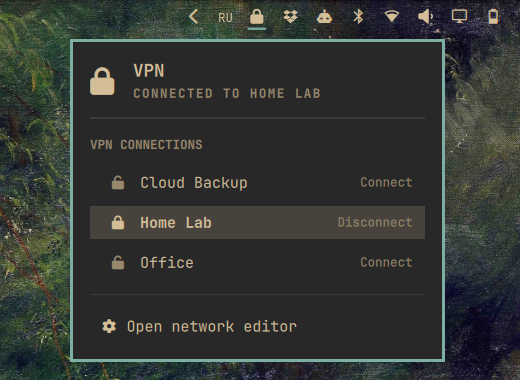
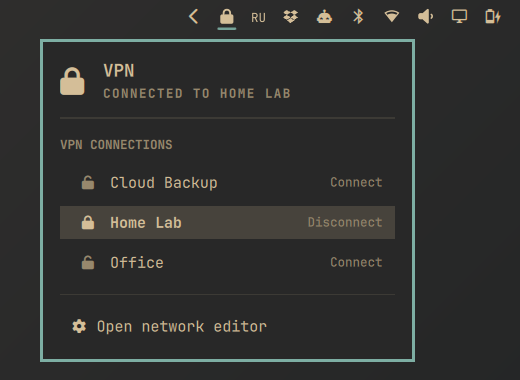
Document removal and dependencies, reshoot screenshots
Add removal instructions, list libnotify, state that the plugin never
writes user configuration, and replace the screenshots with ones on a
self-made background so every preview asset is our own.

diff --git a/README.md b/README.md
@@ -23,10 +23,11 @@ An [Omarchy](https://omarchy.org/) shell plugin that shows your VPN status in th
 | Package | Needed for | Stock Omarchy |
 |---|---|---|
 | `networkmanager` | everything | yes |
+| `libnotify` (`notify-send`) | connect/disconnect notifications | yes, as a dependency of other stock packages |
 | `networkmanager-openvpn`, `networkmanager-openconnect`, … | the VPN types you use | no |
 | `network-manager-applet` | the network editor (`nm-connection-editor`) and the password prompt (`nm-applet`) | no |
 
-The plugin itself only needs NetworkManager. Without `network-manager-applet`:
+The plugin itself only needs NetworkManager and `notify-send`. Without `network-manager-applet`:
 
 - the "Open network editor" entry is replaced by a hint, and profiles have to be created with `nmcli`;
 - **VPNs that ask for a password or OTP cannot connect**, because nothing answers NetworkManager's password request. Profiles with stored credentials, which includes typical WireGuard setups, are unaffected. The panel shows a specific hint when this happens.
@@ -45,7 +46,27 @@ and make sure `nm-applet` runs in your session, for example by adding it to your
 omarchy plugin add https://github.com/ValentinBasin/omarchy-vpn.git --enable
 ```
 
+Omarchy asks which bar section to use; `right` is the default. To move the icon afterwards, for example next to the keyboard layout:
+
+```bash
+omarchy bar move valentinbasin.vpn --section right --after omarchy.keyboard-layout
+```
+
 Update later with `omarchy plugin update valentinbasin.vpn`.
+
+## Removal
+
+```bash
+omarchy plugin remove valentinbasin.vpn
+```
+
+This takes the widget off the bar, together with any settings on its bar entry, and deletes the plugin folder `~/.config/omarchy/plugins/valentinbasin.vpn`. The plugin creates no other files, so nothing else is left behind.
+
+Your NetworkManager VPN profiles are not touched, and any packages you installed for the plugin, such as `network-manager-applet`, stay installed. Remove those with `omarchy pkg drop <package>` if you no longer need them.
+
+## What the plugin changes
+
+The plugin never writes to your configuration. It reads its settings from its entry in `~/.config/omarchy/shell.json`, which Omarchy adds when you enable the widget, and it changes VPN state only when you click a profile: it then runs `nmcli connection up` or `down` for that profile.
 
 ## Usage
 
